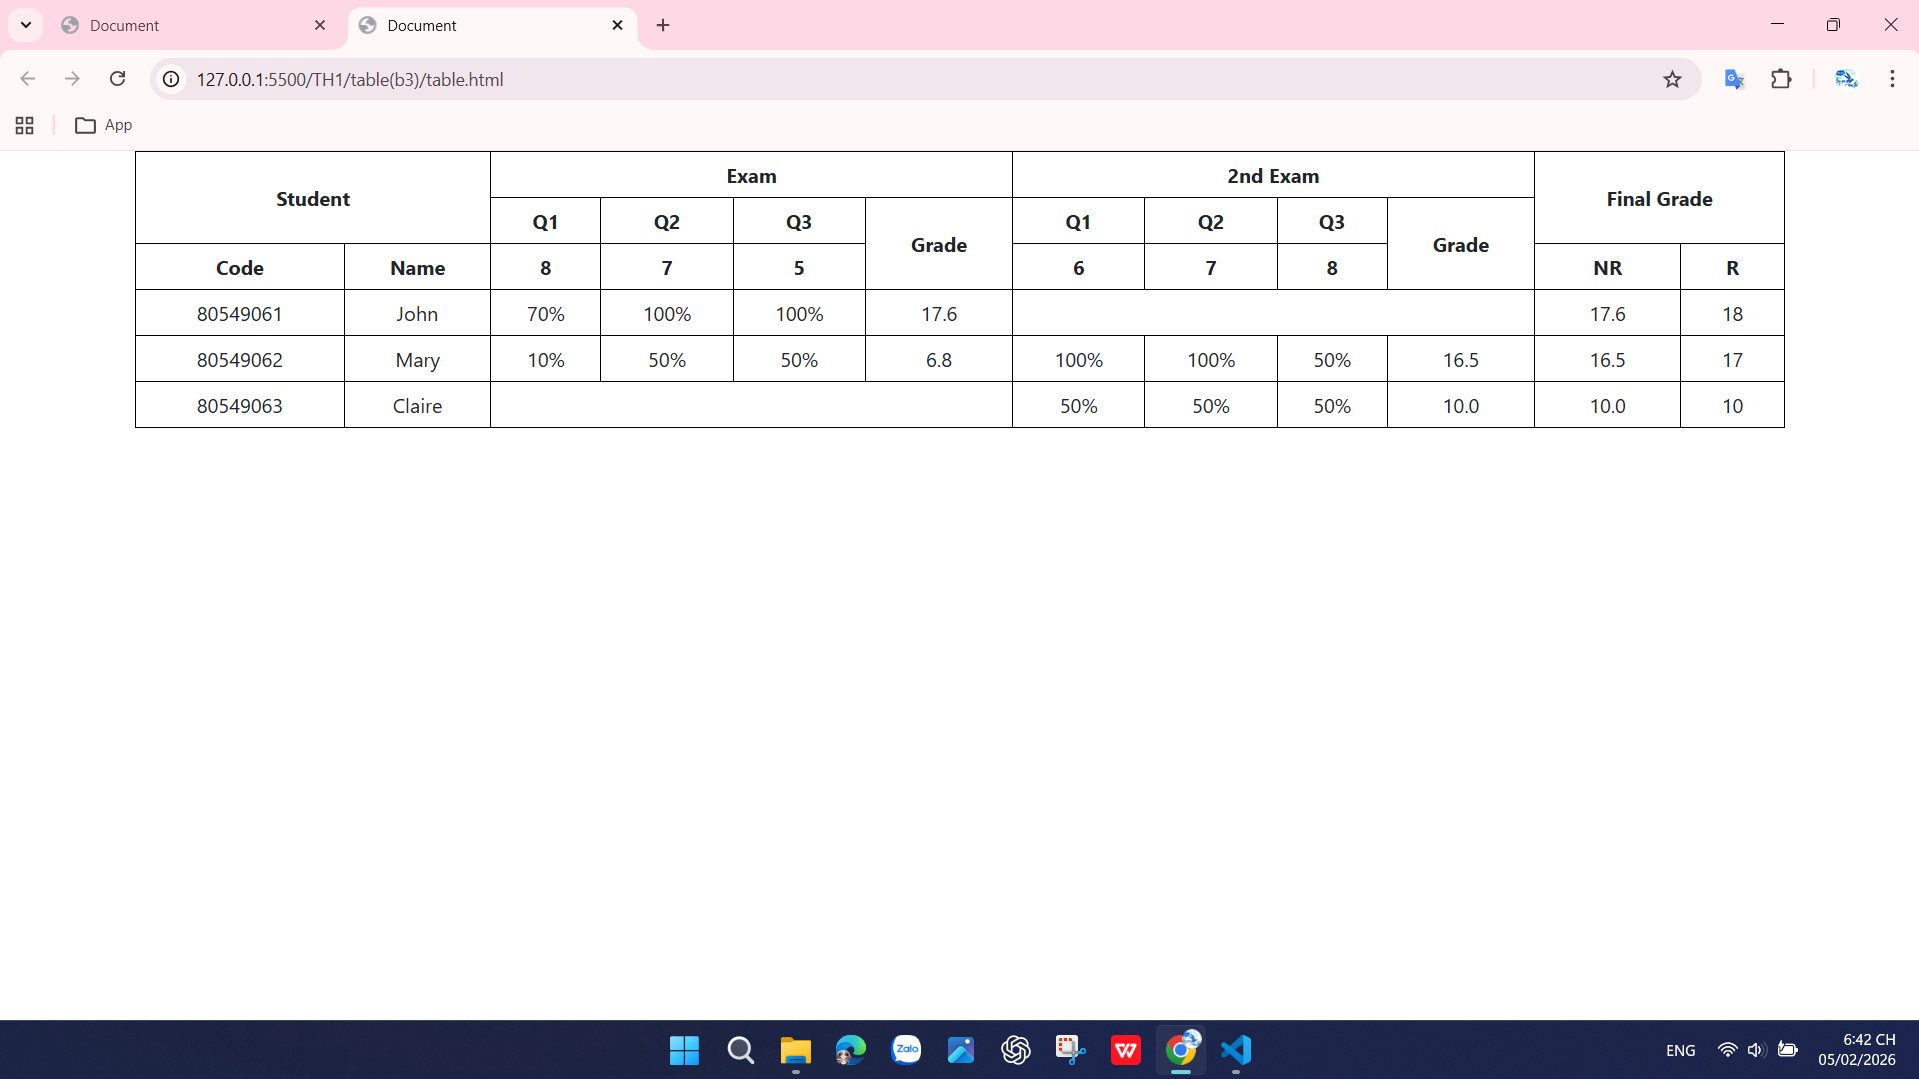
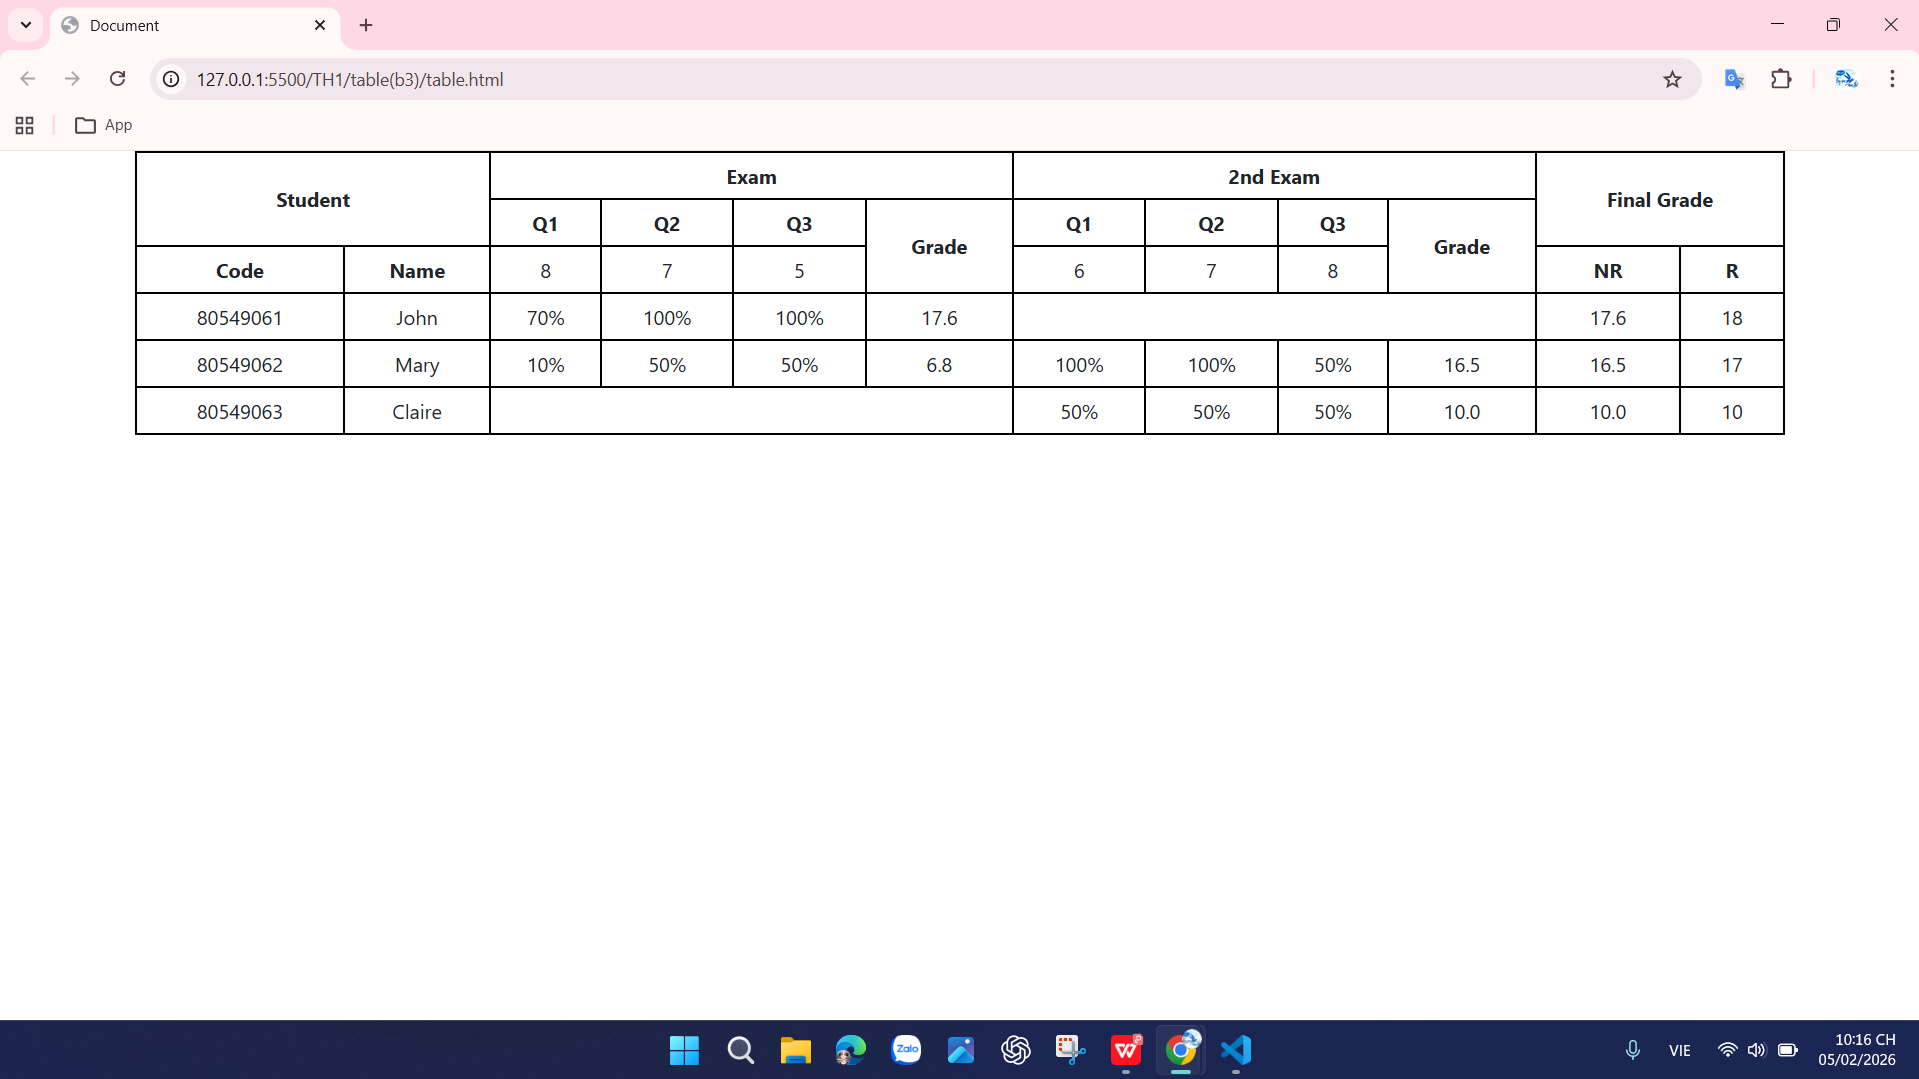
update code

diff --git a/TH1/table(b3)/table.html b/TH1/table(b3)/table.html
@@ -30,12 +30,12 @@
     <tr>
       <th>Code</th>
       <th>Name</th>
-      <th>8</th>
-      <th>7</th>
-      <th>5</th>
-      <th>6</th>
-      <th>7</th>
-      <th>8</th>
+      <td>8</td>
+      <td>7</td>
+      <td>5</td>
+      <td>6</td>
+      <td>7</td>
+      <td>8</td>
       <th>NR</th>
       <th>R</th>
     </tr>

diff --git a/TH1/table(b3)/style.css b/TH1/table(b3)/style.css
@@ -5,6 +5,6 @@
 }
 
 .bang th, .bang td {
-    border: 1px solid black;
+    border: 2px solid black;
     padding: 6px;
 }
